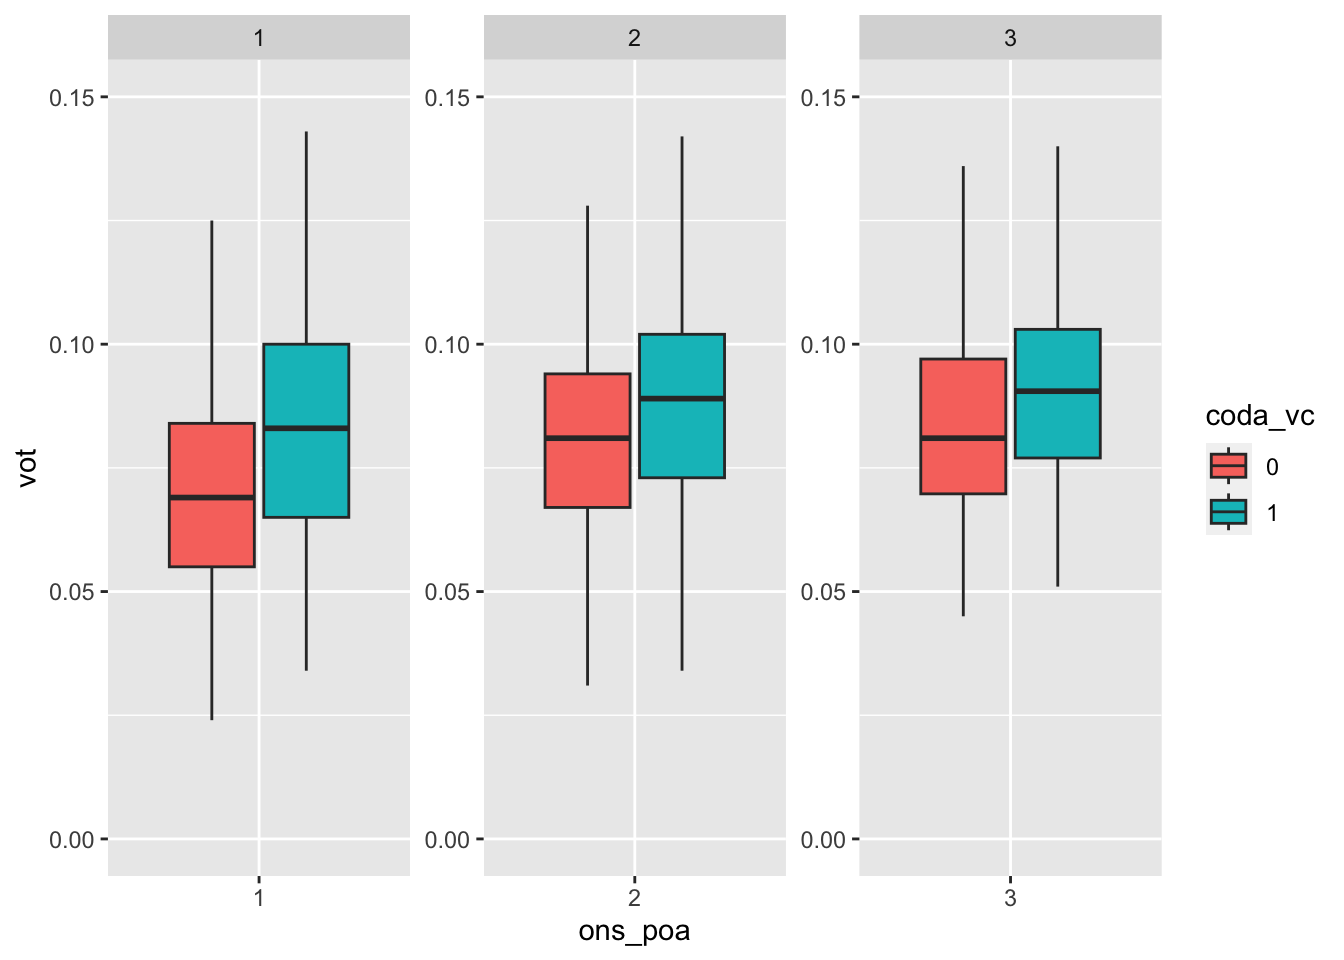
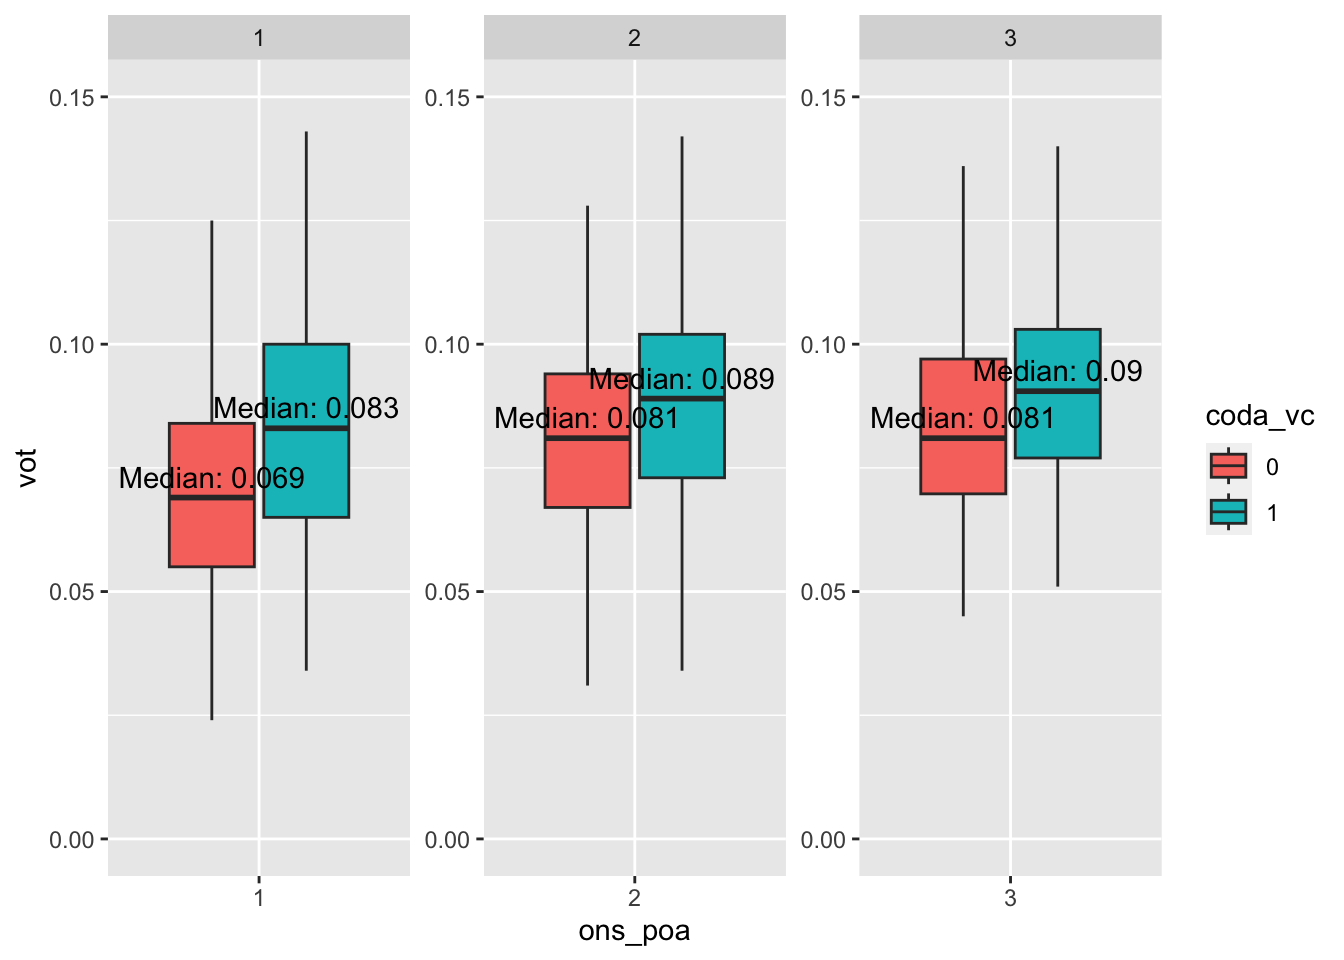
update plot

diff --git a/docs/data_anal.html b/docs/data_anal.html
@@ -376,9 +376,22 @@ div.tocify {
 data$coda_vc &lt;- as.character(data$coda_vc) #change class of coda_vc
 data$ons_poa &lt;- as.character(data$ons_poa) #change class of ons_poa
 library(ggplot2)
-plot &lt;- ggplot(data, aes(x = ons_poa,y = vot, fill = coda_vc)) + geom_boxplot(outlier.shape = NA) + ylim(0, 0.15) + facet_wrap(~ons_poa, scale = &quot;free&quot;)
+
+plot &lt;- ggplot(data, aes(x = ons_poa,y = vot, fill = coda_vc)) + geom_boxplot(outlier.shape = NA) + ylim(0, 0.15) + facet_wrap(~ons_poa, scale = &quot;free&quot;) + 
+  stat_summary(fun = median,geom = &quot;text&quot;,aes(label = paste(&quot;Median:&quot;, round(..y.., 3))),  # Label with median values
+    vjust = -0.5,  # Vertical position of the text (adjust as needed)
+    position = position_dodge(width = 0.75),  # Dodge the text for better visibility
+    show.legend = FALSE  # Do not show in legend
+  )
+
 plot</code></pre>
+<pre><code>## Warning: The dot-dot notation (`..y..`) was deprecated in ggplot2 3.4.0.
+## ℹ Please use `after_stat(y)` instead.
+## This warning is displayed once every 8 hours.
+## Call `lifecycle::last_lifecycle_warnings()` to see where this warning was
+## generated.</code></pre>
 <pre><code>## Warning: Removed 23 rows containing non-finite values (`stat_boxplot()`).</code></pre>
+<pre><code>## Warning: Removed 23 rows containing non-finite values (`stat_summary()`).</code></pre>
 <p><img src="data_anal_files/figure-html/unnamed-chunk-1-1.png" width="672" /></p>
 </div>
 <div id="by-onset-poa-and-vowel" class="section level1">
